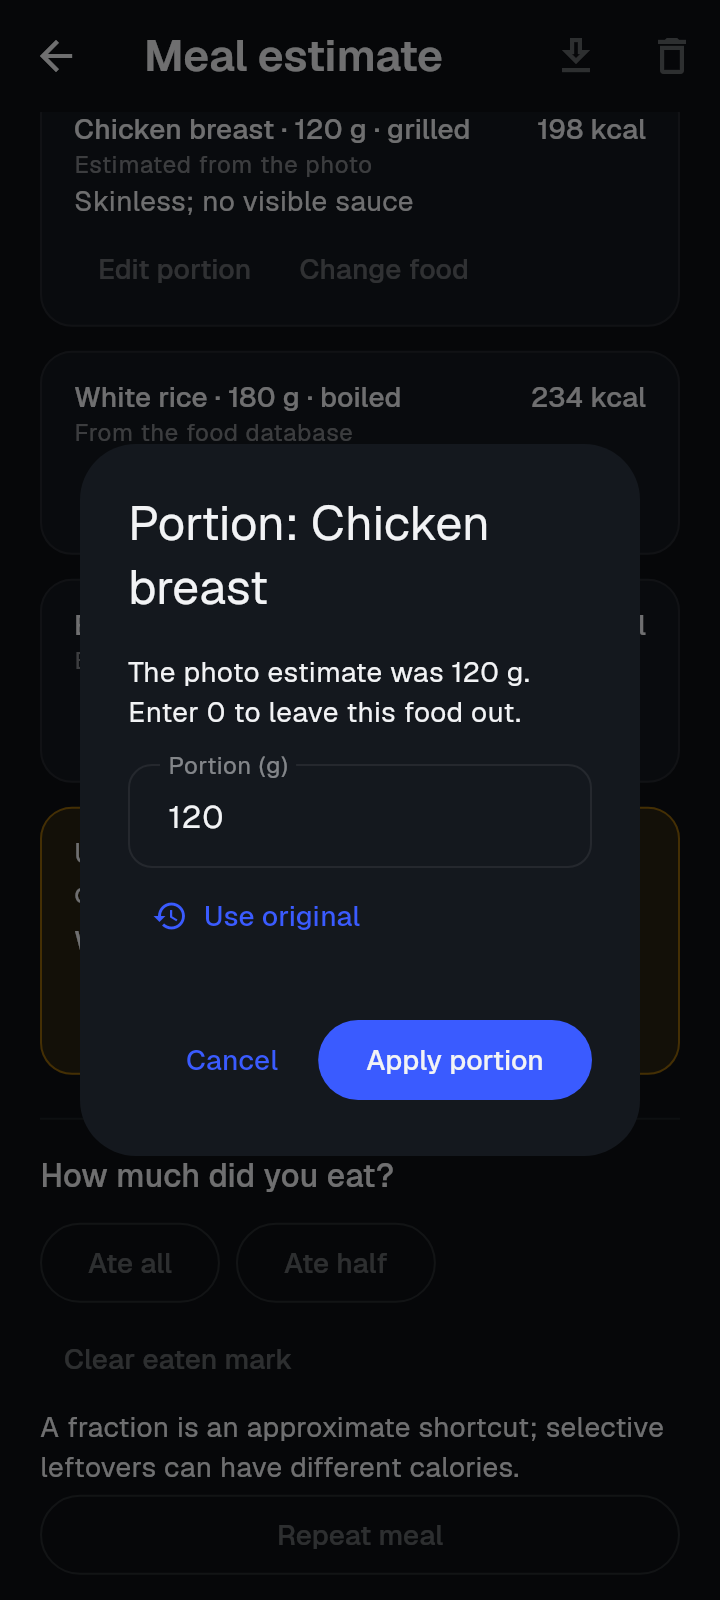
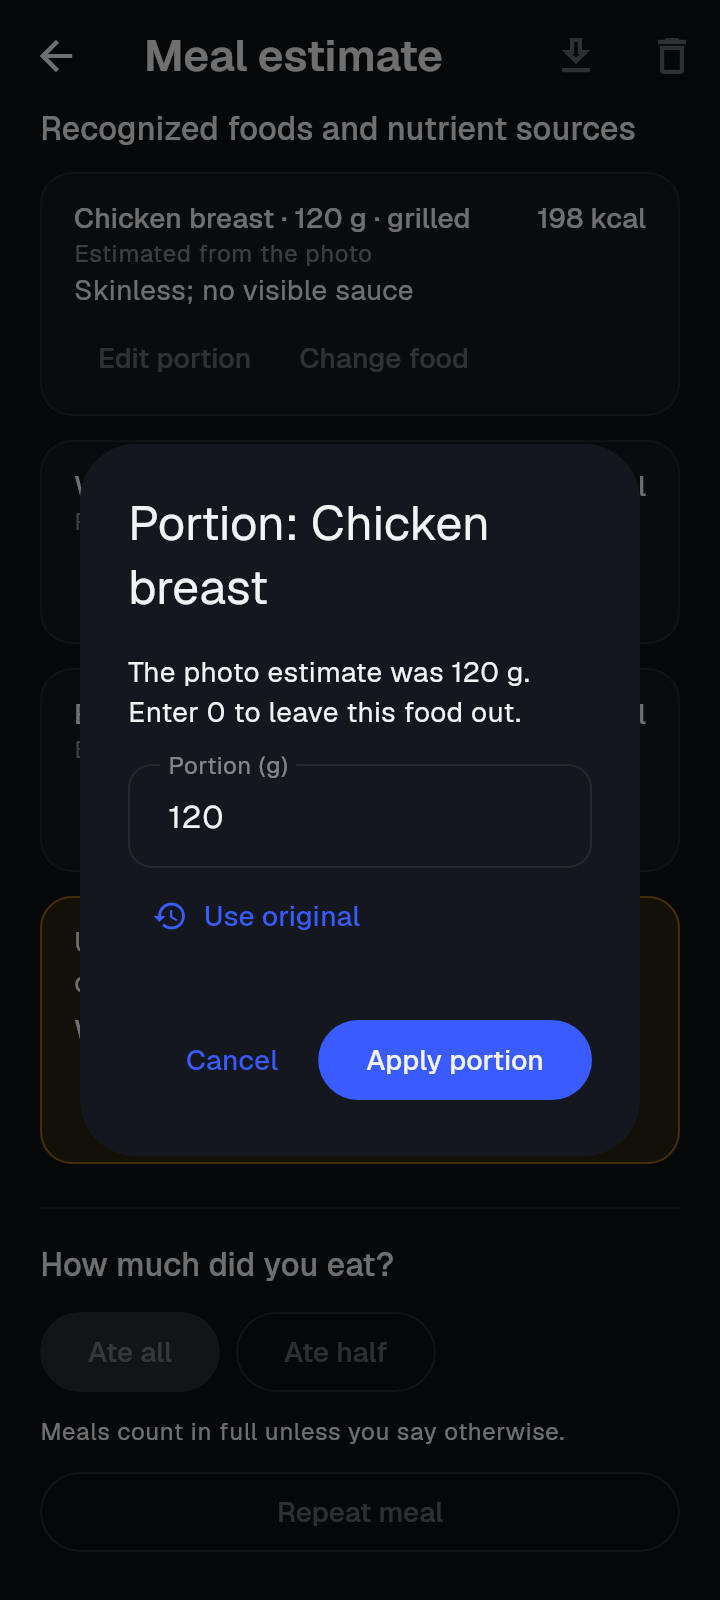
Record the ring, navigation, eaten-by-default and motion decisions in the Tier1 handover as the owner made them

diff --git a/docs/UI_REVIEW_AND_HANDOVER_2026-11-14.md b/docs/UI_REVIEW_AND_HANDOVER_2026-11-14.md
@@ -82,8 +82,16 @@ an Edit button. (d) is DONE in `bff13cb` (owner said yes): a summary card (name,
 8. [Home] saved meals appear nowhere on the first screen and there is no "today" total. One line above the
    buttons ("Today · 839 kcal · 2 meals", tappable to History) costs little and shows the product's point.
 
-**Still open with the owner:** does Tier1 take the design handoff's components (ring, nav), or only its tokens?
-Items 1–8 need no answer to that; they use tokens that already exist in `lib/core/theme/`.
+**Owner decisions of 2026-11-16, all DONE in the worktree (`c9fdb21` and the three commits before it):**
+- Tier1 takes the design's ring and navigation. Three tabs: Today (ring from `lib/shared/widgets/macro_ring.dart`
+  against `AppConstants.default*Target`, macro bars, today's meals), Scan in the middle (still the landing
+  screen; a second tap on it takes the photo), History. `Manual entry` moved to the app bar. Renders: `12-today`.
+  NEXT: a Goals screen so the targets are the user's, then the design's Goals and AI tabs.
+- A logged meal counts as eaten; "Ate half" is the exception ("190 of 380 kcal eaten"). The word "served" is gone
+  from the UI. Stored data is unchanged (`consumedFraction == null` now reads as "all").
+- A saved, unchanged meal closes with an outlined `Done`; `Save meal` shows only with the form.
+- Motion follows `docs/tier1-motion.md` (in the worktree); all durations are in `lib/features/tier1/motion.dart`.
+  Antigravity was asked to implement it and timed out after 5 minutes without an edit, so the host did it.
 
 **Device check DONE 2026-11-15** on the Samsung (APK from workflow run 43756437794, commit `ae0cccb`, installed
 with `phone-adb install -r`). The phone has no lock: `phone-adb shell input keyevent KEYCODE_WAKEUP` then
